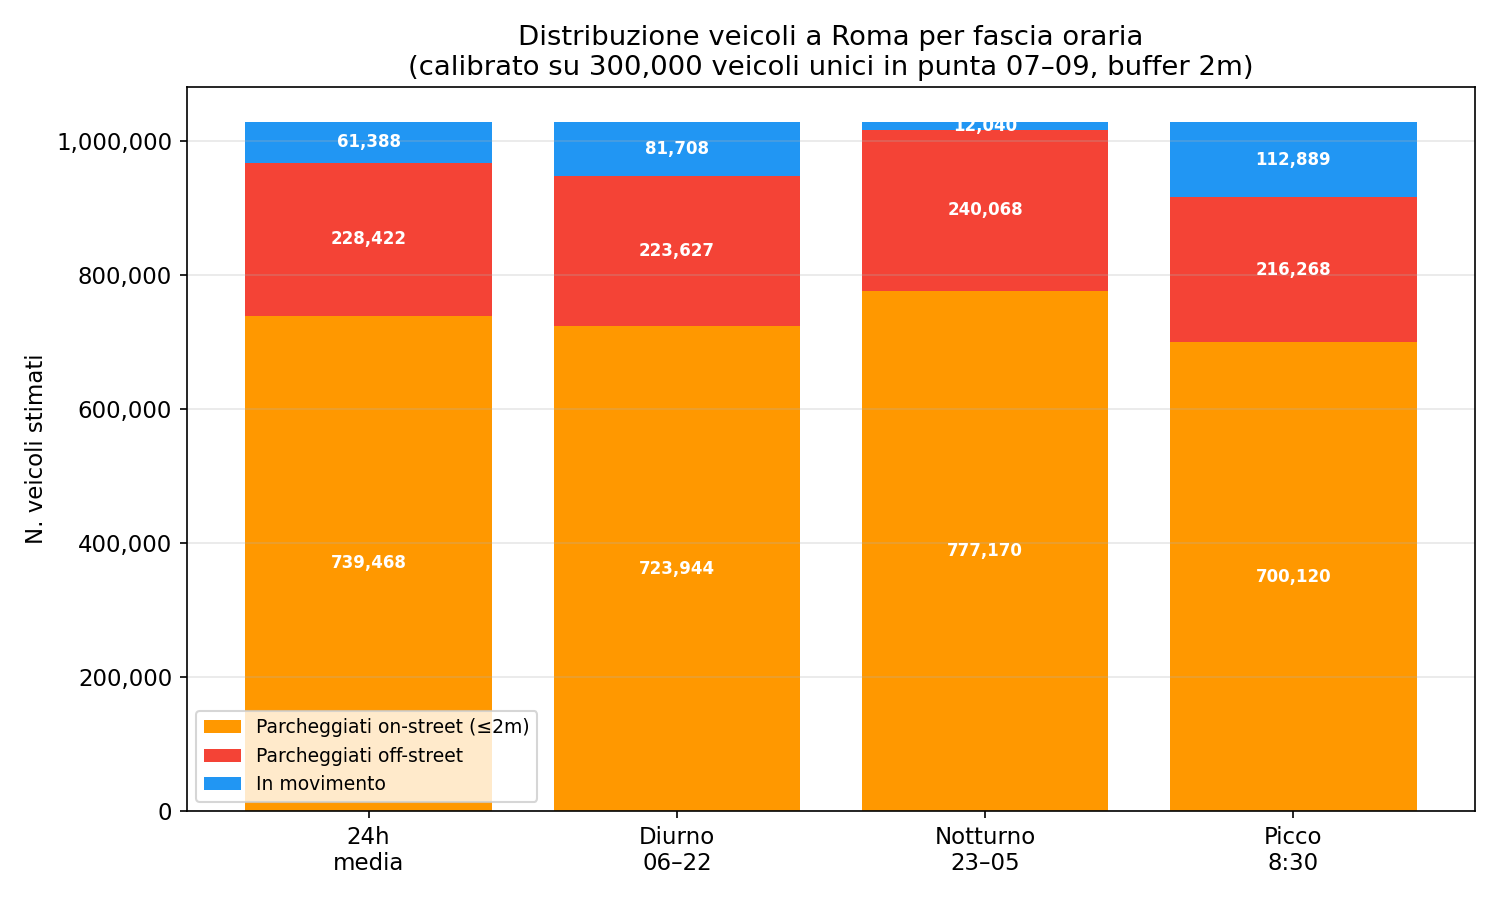
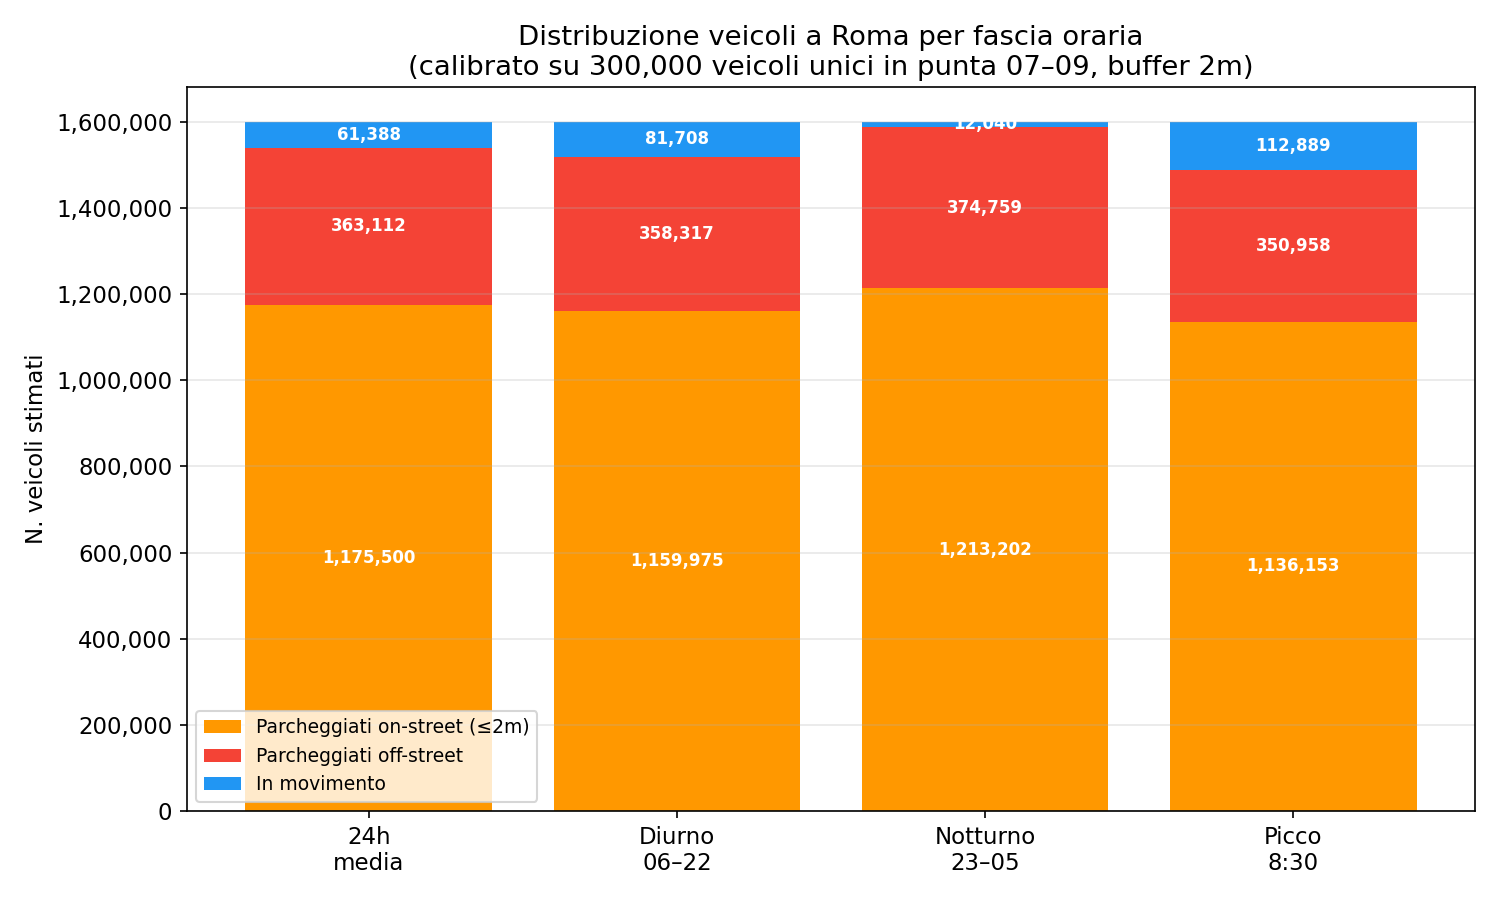
Fix superficie occupata: usa parco totale - veicoli in moto
Il denominatore per la stima della superficie occupata era la flotta
giornaliera attiva (veicoli che si sono mossi quel giorno). Corretto
con FLEET_TOTAL_ROME - city_n_moving: include anche i veicoli che non
si spostano affatto ma sono ugualmente parcheggiati su strada.

Introduce parametro FLEET_TOTAL_ROME = 1.600.000 (ACI, modificabile).
Nuovi risultati: ~1,54M parcheggiati in media (96.2%), di cui ~1,18M
on-street (buffer 2m) → ~10.9% della superficie carrabile occupata.

https://claude.ai/code/session_01VTnSyJonM3uZJCXviEdtqi

diff --git a/analyze_parking.py b/analyze_parking.py
@@ -653,60 +653,73 @@ print(f"  Campione FCD (media/giorno stessa finestra):  {avg_unique_peak_sample:
 print(f"  Fattore di espansione:                        {SCALE:.1f}×")
 print(f"  Flotta giornaliera attiva stimata:            {implied_daily_fleet:,.0f} veicoli")
 
-# --- Espansione del profilo orario ---
-df_city = df_hourly_usage.copy()
-df_city["city_n_active"]  = (df_city["avg_n_active"]  * SCALE).round(0).astype(int)
-df_city["city_n_moving"]  = (df_city["avg_n_moving"]  * SCALE).round(0).astype(int)
-df_city["city_n_parked"]  = (df_city["avg_n_parked"]  * SCALE).round(0).astype(int)
-df_city["avg_pct_moving"]  = df_city["avg_pct_moving"]
-df_city["avg_pct_parked"]  = df_city["avg_pct_parked"]
+# Parco veicolare totale registrato nel Comune di Roma (fonte: ACI).
+# Include tutti i veicoli — anche quelli che non si spostano quotidianamente.
+# Modifica questo valore se disponi di un dato aggiornato.
+FLEET_TOTAL_ROME = 1_600_000
 
-# --- Espansione on/off-street (buffer 0m e 2m) ---
-# % on/off-street derivata dall'analisi AC_VEI (se disponibile) o dai valori di default
+print(f"  Parco veicolare totale (ACI, modif.):         {FLEET_TOTAL_ROME:,} veicoli")
+
+# --- Espansione del profilo orario ---
+# city_n_moving: veicoli in moto per ogni ora (scala campione → città)
+# city_n_parked_active: veicoli della flotta attiva che sono fermi
+# city_n_parked_total: TUTTI i veicoli non in moto (flotta totale - in moto)
+#   → questo è il denominatore corretto per la superficie occupata,
+#     perché include anche i veicoli che non si muovono mai quel giorno.
+df_city = df_hourly_usage.copy()
+df_city["city_n_moving"]        = (df_city["avg_n_moving"] * SCALE).round(0).astype(int)
+df_city["city_n_parked_active"] = (df_city["avg_n_parked"] * SCALE).round(0).astype(int)
+df_city["city_n_parked_total"]  = FLEET_TOTAL_ROME - df_city["city_n_moving"]
+df_city["pct_moving_total"]     = (df_city["city_n_moving"] / FLEET_TOTAL_ROME * 100).round(2)
+df_city["pct_parked_total"]     = (df_city["city_n_parked_total"] / FLEET_TOTAL_ROME * 100).round(2)
+
+# --- On/off-street ---
+# La % on/off-street viene dall'analisi AC_VEI sui trip FCD (veicoli che hanno fatto
+# almeno un viaggio). Applicata alla flotta totale parcheggiata è un'approssimazione:
+# i veicoli che non si spostano mai tendono ad essere più spesso in garage (off-street),
+# quindi le stime on-street sono da considerarsi un limite superiore.
 if df_buffer is not None:
     pct_on_0m  = float(df_buffer.loc[df_buffer.buffer_m == 0,  "pct_on_street"].iloc[0]) / 100
     pct_on_2m  = float(df_buffer.loc[df_buffer.buffer_m == 2,  "pct_on_street"].iloc[0]) / 100
     pct_on_5m  = float(df_buffer.loc[df_buffer.buffer_m == 5,  "pct_on_street"].iloc[0]) / 100
     pct_on_10m = float(df_buffer.loc[df_buffer.buffer_m == 10, "pct_on_street"].iloc[0]) / 100
-    has_buffer_data = True
 else:
-    # Valori dall'analisi precedente (già eseguita dall'utente)
     pct_on_0m, pct_on_2m, pct_on_5m, pct_on_10m = 0.650, 0.764, 0.843, 0.901
-    has_buffer_data = False
-    print("  [Valori on/off-street da analisi precedente: 0m=65%, 2m=76.4%, 5m=84.3%, 10m=90.1%]")
+    print("  [% on/off-street da analisi precedente: 0m=65%, 2m=76.4%, 5m=84.3%, 10m=90.1%]")
 
-# Stime orarie con on/off-street
-df_city["city_n_parked_onstreet_0m"]  = (df_city["city_n_parked"] * pct_on_0m).round(0).astype(int)
-df_city["city_n_parked_offstreet_0m"] = df_city["city_n_parked"] - df_city["city_n_parked_onstreet_0m"]
-df_city["city_n_parked_onstreet_2m"]  = (df_city["city_n_parked"] * pct_on_2m).round(0).astype(int)
-df_city["city_n_parked_offstreet_2m"] = df_city["city_n_parked"] - df_city["city_n_parked_onstreet_2m"]
+df_city["city_n_onstreet_0m"]  = (df_city["city_n_parked_total"] * pct_on_0m).round(0).astype(int)
+df_city["city_n_offstreet_0m"] = df_city["city_n_parked_total"] - df_city["city_n_onstreet_0m"]
+df_city["city_n_onstreet_2m"]  = (df_city["city_n_parked_total"] * pct_on_2m).round(0).astype(int)
+df_city["city_n_offstreet_2m"] = df_city["city_n_parked_total"] - df_city["city_n_onstreet_2m"]
 
 df_city.to_csv(os.path.join(RESULTS, "09_stima_citta_oraria.csv"), index=False)
 
 # --- Sintesi per fascia ---
+SURF_KM2 = 135.142
 night_city = df_city[df_city["hour"].isin(night_hours)]
 day_city   = df_city[~df_city["hour"].isin(night_hours)]
 
 def city_summary(df_sub, label):
-    n_p   = df_sub["city_n_parked"].mean()
-    n_m   = df_sub["city_n_moving"].mean()
-    n_on0 = df_sub["city_n_parked_onstreet_0m"].mean()
-    n_on2 = df_sub["city_n_parked_onstreet_2m"].mean()
-    area0 = n_on0 * AREA_VEI_MQ / 1e6        # km²
-    area2 = n_on2 * AREA_VEI_MQ / 1e6
-    surf  = 135.142                           # km² superficie carrabile
+    n_m    = df_sub["city_n_moving"].mean()
+    n_pt   = df_sub["city_n_parked_total"].mean()
+    n_on0  = df_sub["city_n_onstreet_0m"].mean()
+    n_on2  = df_sub["city_n_onstreet_2m"].mean()
+    area0  = n_on0 * AREA_VEI_MQ / 1e6
+    area2  = n_on2 * AREA_VEI_MQ / 1e6
     return {
         "fascia": label,
         "n_in_movimento": int(round(n_m)),
-        "n_parcheggiati_totale": int(round(n_p)),
-        "n_parcheggiati_on_street_0m": int(round(n_on0)),
-        "n_parcheggiati_off_street_0m": int(round(n_p - n_on0)),
-        "n_parcheggiati_on_street_2m": int(round(n_on2)),
-        "n_parcheggiati_off_street_2m": int(round(n_p - n_on2)),
-        "superficie_occupata_km2_0m": round(area0, 2),
-        "superficie_occupata_km2_2m": round(area2, 2),
-        "pct_superficie_carrabile_0m": round(area0 / surf * 100, 1),
-        "pct_superficie_carrabile_2m": round(area2 / surf * 100, 1),
+        "pct_in_movimento": round(n_m / FLEET_TOTAL_ROME * 100, 1),
+        "n_parcheggiati_totale": int(round(n_pt)),
+        "pct_parcheggiati": round(n_pt / FLEET_TOTAL_ROME * 100, 1),
+        "n_on_street_0m": int(round(n_on0)),
+        "n_off_street_0m": int(round(n_pt - n_on0)),
+        "n_on_street_2m": int(round(n_on2)),
+        "n_off_street_2m": int(round(n_pt - n_on2)),
+        "superficie_on_street_km2_0m": round(area0, 2),
+        "superficie_on_street_km2_2m": round(area2, 2),
+        "pct_superficie_carrabile_0m": round(area0 / SURF_KM2 * 100, 1),
+        "pct_superficie_carrabile_2m": round(area2 / SURF_KM2 * 100, 1),
     }
 
 rows_summary = [
@@ -719,13 +732,13 @@ df_city_summary = pd.DataFrame(rows_summary)
 df_city_summary.to_csv(os.path.join(RESULTS, "10_stima_citta_sintesi.csv"), index=False)
 
 # Stampa riepilogo
-print(f"\n  {'Fascia':<26} {'In moto':>10} {'Parcheg.':>10} "
-      f"{'On-str 0m':>12} {'On-str 2m':>12} {'Superf. 2m':>12}")
-print("  " + "-" * 86)
+print(f"\n  {'Fascia':<26} {'In moto':>9} {'% moto':>7} "
+      f"{'Parcheg.':>10} {'% parch.':>9} {'On-str 2m':>11} {'Superf. 2m':>11}")
+print("  " + "-" * 90)
 for r in rows_summary:
-    print(f"  {r['fascia']:<26} {r['n_in_movimento']:>10,} {r['n_parcheggiati_totale']:>10,} "
-          f"{r['n_parcheggiati_on_street_0m']:>12,} {r['n_parcheggiati_on_street_2m']:>12,} "
-          f"{r['pct_superficie_carrabile_2m']:>10.1f}%")
+    print(f"  {r['fascia']:<26} {r['n_in_movimento']:>9,} {r['pct_in_movimento']:>6.1f}% "
+          f"{r['n_parcheggiati_totale']:>10,} {r['pct_parcheggiati']:>8.1f}% "
+          f"{r['n_on_street_2m']:>11,} {r['pct_superficie_carrabile_2m']:>9.1f}%")
 
 # --- Fig 13: Profilo orario a scala di città ---
 fig, axes = plt.subplots(2, 1, figsize=(13, 9), sharex=True)
@@ -733,24 +746,24 @@ ax1, ax2 = axes
 
 ax1.stackplot(df_city["hour"],
               df_city["city_n_moving"],
-              df_city["city_n_parked_onstreet_2m"],
-              df_city["city_n_parked_offstreet_2m"],
+              df_city["city_n_onstreet_2m"],
+              df_city["city_n_offstreet_2m"],
               labels=["In movimento", "Parcheggiati on-street (≤2m)", "Parcheggiati off-street"],
               colors=["#2196F3", "#FF9800", "#F44336"], alpha=0.85)
-ax1.set_ylabel("N. veicoli (stima città)")
+ax1.set_ylabel(f"N. veicoli (su {FLEET_TOTAL_ROME:,} totali)")
 ax1.set_title(f"Stima veicoli in movimento e in sosta a Roma per ora del giorno\n"
-              f"(calibrato su {REF_PEAK_VEHICLES:,} veicoli unici in punta 07–09 — buffer 2m)")
+              f"(parco totale {FLEET_TOTAL_ROME:,} — buffer 2m — calibrato su {REF_PEAK_VEHICLES:,} veh. in punta 07–09)")
 ax1.yaxis.set_major_formatter(mticker.FuncFormatter(lambda x, _: f"{int(x):,}"))
 ax1.legend(loc="upper left", fontsize=9)
 ax1.grid(True, alpha=0.25, axis="y")
 
-ax2.plot(df_city["hour"], df_city["avg_pct_parked"],
-         marker="o", linewidth=2, color="#F44336", label="% Parcheggiati")
-ax2.plot(df_city["hour"], df_city["avg_pct_moving"],
-         marker="o", linewidth=2, color="#2196F3", label="% In movimento")
+ax2.plot(df_city["hour"], df_city["pct_parked_total"],
+         marker="o", linewidth=2, color="#F44336", label="% Parcheggiati (su parco totale)")
+ax2.plot(df_city["hour"], df_city["pct_moving_total"],
+         marker="o", linewidth=2, color="#2196F3", label="% In movimento (su parco totale)")
 ax2.set_xlabel("Ora del giorno")
 ax2.set_ylabel("%")
-ax2.set_title("Proporzione % veicoli parcheggiati vs in movimento")
+ax2.set_title("% veicoli parcheggiati vs in movimento (su parco veicolare totale)")
 ax2.set_xticks(range(0, 24))
 ax2.yaxis.set_major_formatter(mticker.PercentFormatter())
 ax2.set_ylim(0, 105)
@@ -763,9 +776,9 @@ print("  fig13_stima_citta_profilo_orario.png")
 
 # --- Fig 14: Barre confronto fasce orarie (stima città) ---
 fasce   = ["24h\nmedia", f"Diurno\n06–22", "Notturno\n23–05", f"Picco\n{peak_hour}:30"]
-n_on2   = [r["n_parcheggiati_on_street_2m"]  for r in rows_summary]
-n_off2  = [r["n_parcheggiati_off_street_2m"] for r in rows_summary]
-n_mov   = [r["n_in_movimento"]               for r in rows_summary]
+n_on2   = [r["n_on_street_2m"]  for r in rows_summary]
+n_off2  = [r["n_off_street_2m"] for r in rows_summary]
+n_mov   = [r["n_in_movimento"]  for r in rows_summary]
 x       = np.arange(len(fasce))
 
 fig, ax = plt.subplots(figsize=(10, 6))
